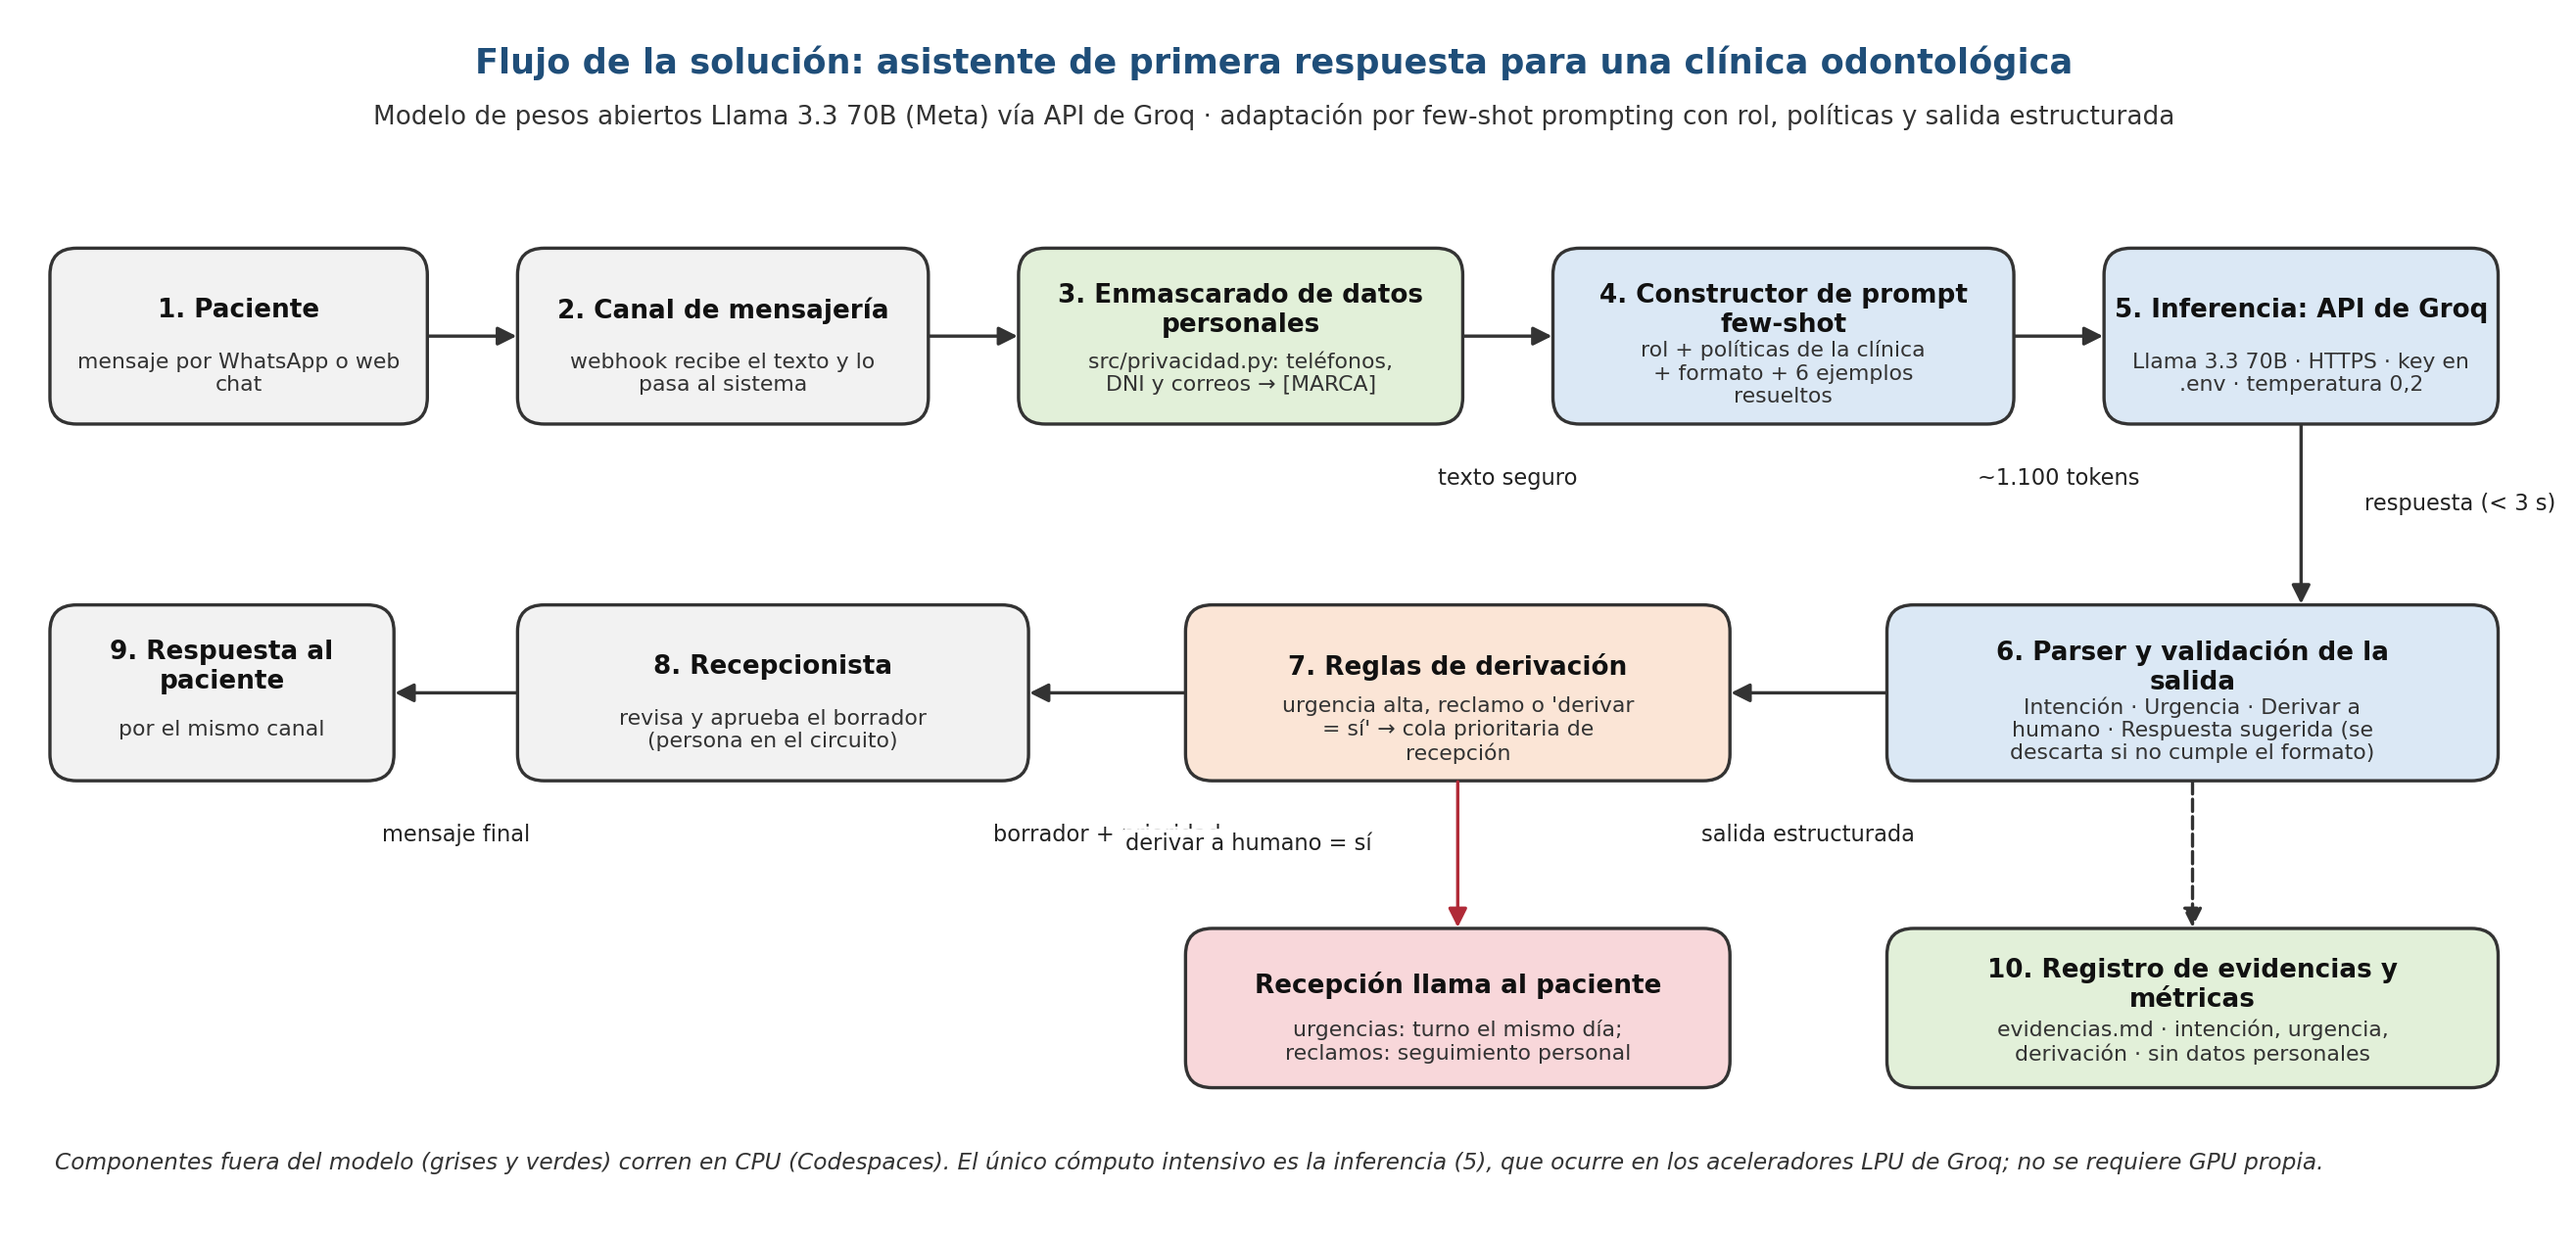
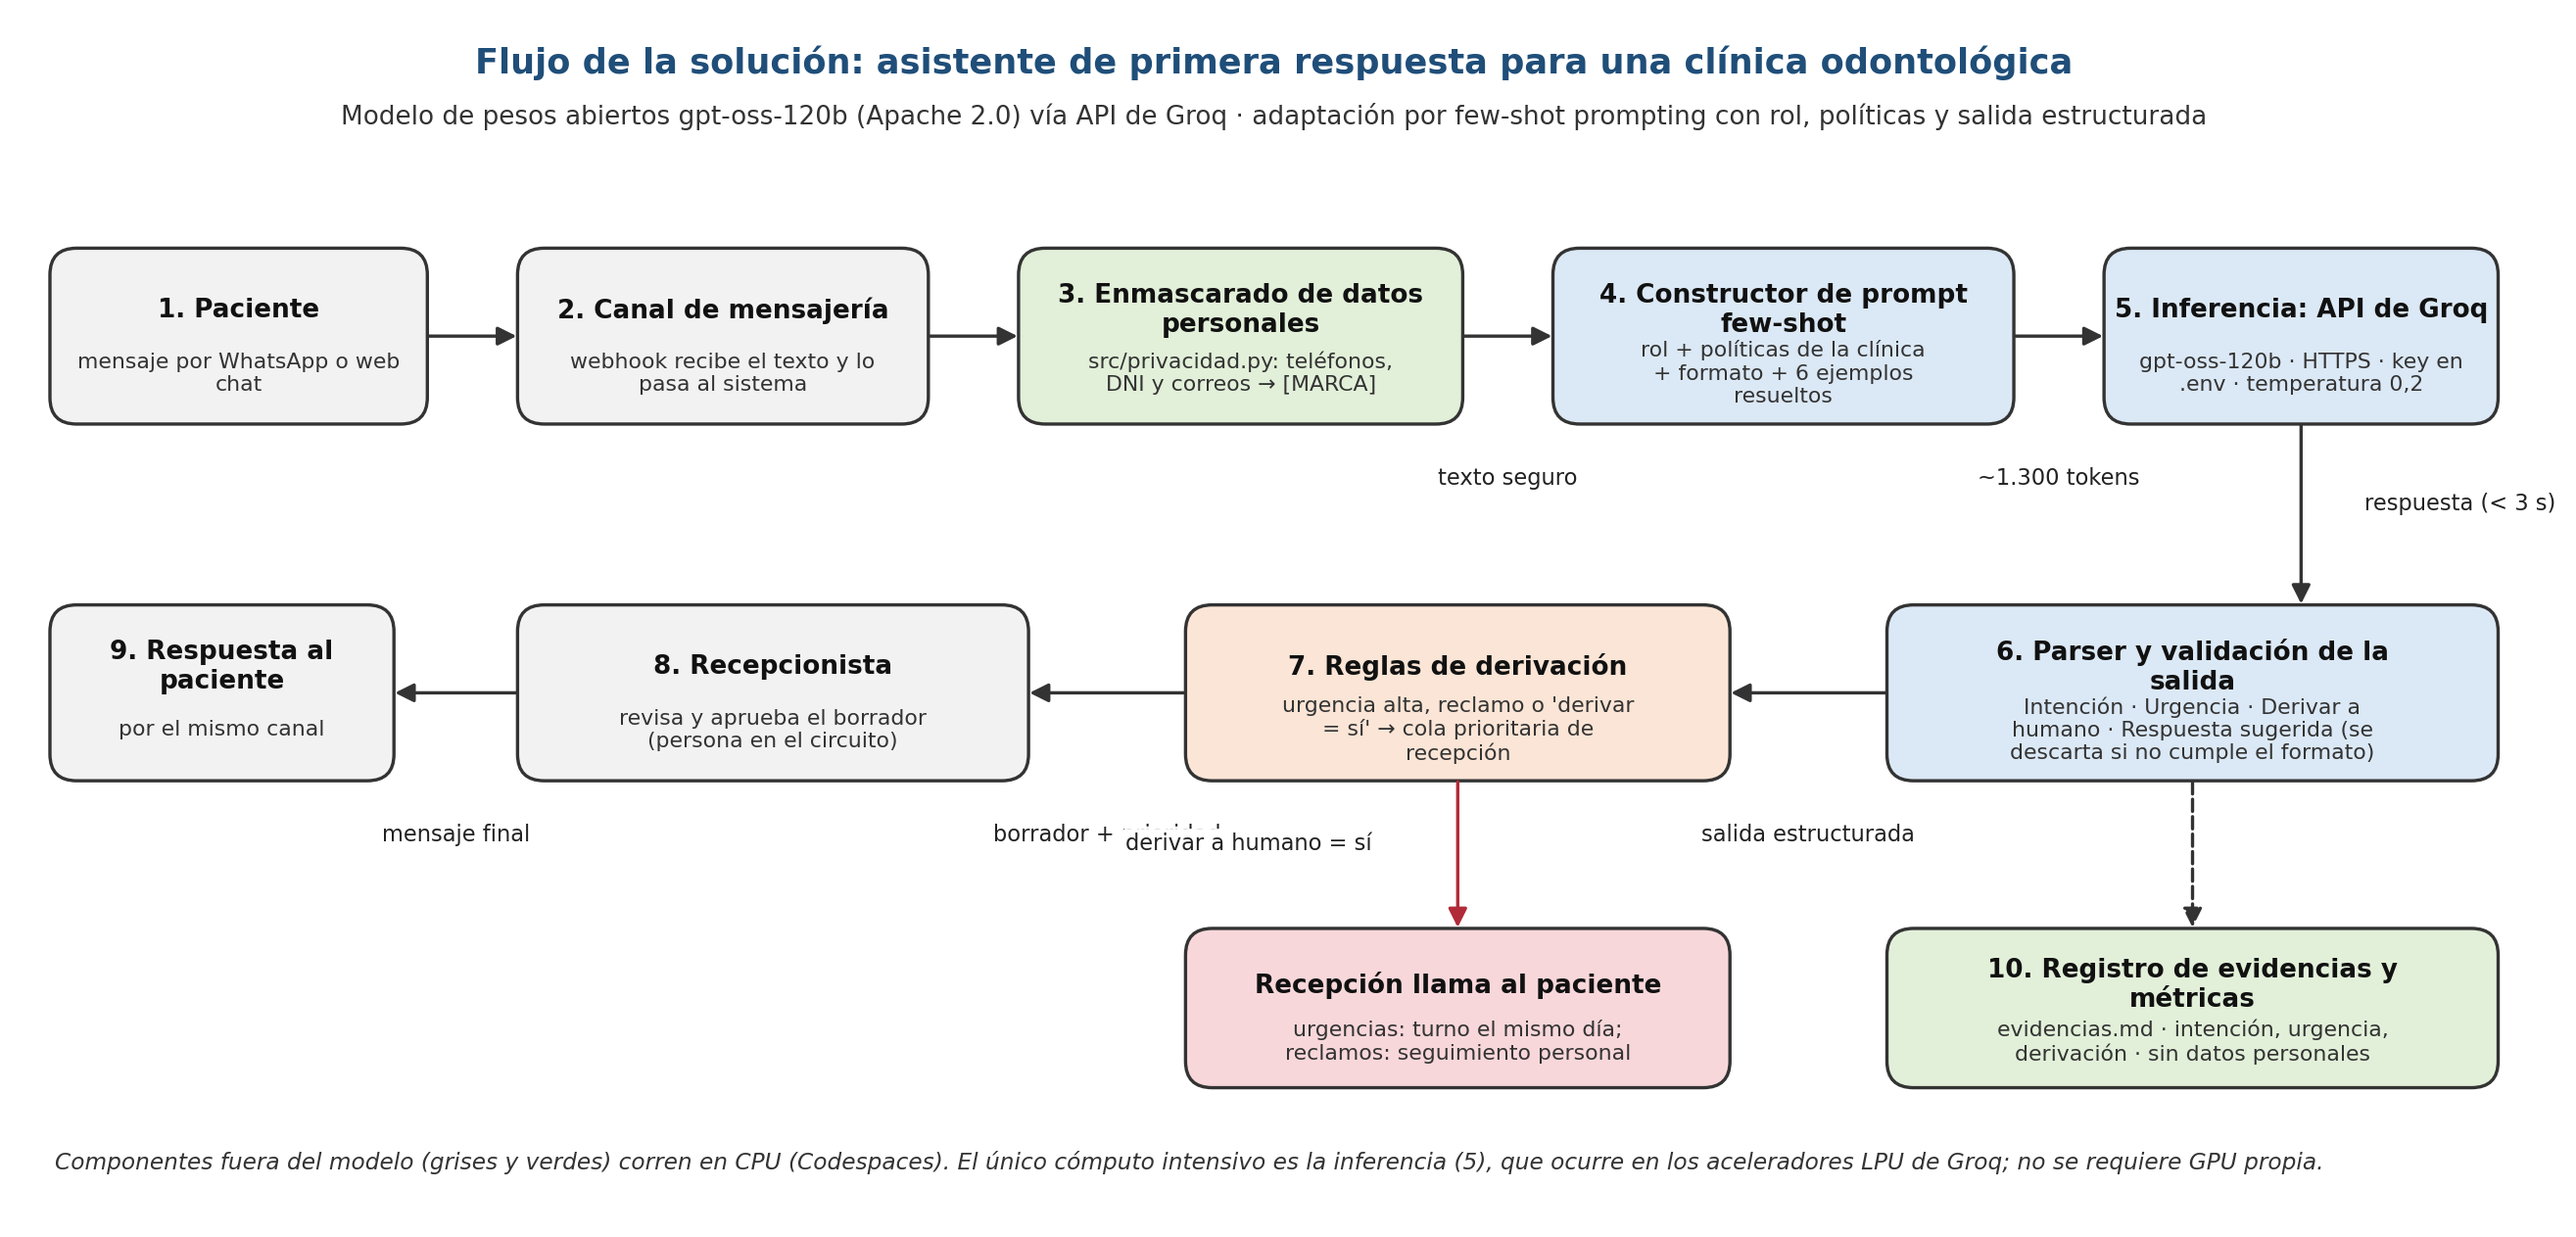
Paso el modelo a gpt-oss-120b porque Groq sacó Llama del plan gratuito

Changed region(s): [[0.1559, 0.0618, 0.8418, 0.1235], [0.8106, 0.2779, 0.9665, 0.3088]]

diff --git a/unidad1/src/providers/groq_provider.py b/unidad1/src/providers/groq_provider.py
@@ -9,15 +9,21 @@ from src.providers.base_provider import BaseProvider
 # --- Constantes del proveedor (nada de "magic strings/numbers" inline) ---
 GROQ_API_KEY_ENV_VAR = "GROQ_API_KEY"
 GROQ_MODEL_NAME_ENV_VAR = "GROQ_MODEL_NAME"
-# Modelo de pesos abiertos elegido en la consigna 2 (Llama 3.3 70B de Meta, servido por
-# Groq). El catálogo de Groq cambia con el tiempo: si este id deja de existir, se puede
-# fijar otro con la variable de entorno GROQ_MODEL_NAME sin tocar el código, o listar los
-# vigentes con `curl -s -H "Authorization: Bearer $GROQ_API_KEY" https://api.groq.com/openai/v1/models`.
-GROQ_MODEL_NAME_POR_DEFECTO = "llama-3.3-70b-versatile"
+# Modelo de pesos abiertos elegido en la consigna 2: gpt-oss-120b (OpenAI, licencia Apache 2.0,
+# mezcla de expertos con 5,1B de parámetros activos), servido por Groq en el nivel gratuito.
+# Llama 3.3 70B fue la primera opción, pero Groq lo retiró del plan gratuito el 16/08/2026.
+# El catálogo cambia con el tiempo: si este id deja de existir, se puede fijar otro con la
+# variable de entorno GROQ_MODEL_NAME sin tocar el código, o listar los vigentes con
+# `curl -s -H "Authorization: Bearer $GROQ_API_KEY" https://api.groq.com/openai/v1/models`.
+GROQ_MODEL_NAME_POR_DEFECTO = "openai/gpt-oss-120b"
 # Temperatura baja: la tarea es de clasificación y redacción acotada, se busca consistencia.
 GROQ_TEMPERATURE = 0.2
-# Tope de tokens de salida: la respuesta estructurada es corta (cuatro líneas).
-GROQ_MAX_TOKENS = 400
+# Tope de tokens de salida: la respuesta estructurada es corta (cuatro líneas). Incluye el
+# razonamiento interno del modelo, por eso se deja margen.
+GROQ_MAX_TOKENS = 1200
+# gpt-oss es un modelo de razonamiento: con esfuerzo bajo alcanza para clasificar y redactar,
+# y se reduce la latencia y el consumo de tokens del nivel gratuito.
+GROQ_REASONING_EFFORT = "low"
 
 
 class GroqProvider(BaseProvider):
@@ -39,6 +45,7 @@ class GroqProvider(BaseProvider):
                 model=self.nombre_modelo,
                 temperature=GROQ_TEMPERATURE,
                 max_tokens=GROQ_MAX_TOKENS,
+                reasoning_effort=GROQ_REASONING_EFFORT,
                 messages=[{"role": "user", "content": prompt}],
             )
         except Exception as error:

diff --git a/unidad1/src/main.py b/unidad1/src/main.py
@@ -12,6 +12,7 @@ src/prompt_templates.py.
 """
 
 import os
+import time
 from datetime import datetime, timezone
 
 from dotenv import load_dotenv
@@ -25,6 +26,9 @@ MODEL_PROVIDER_ENV_VAR = "MODEL_PROVIDER"
 EVIDENCIAS_FILE_PATH = "evidencias.md"
 CAMPO_DERIVACION = "Derivar a humano"
 CAMPO_INTENCION = "Intención"
+# El nivel gratuito de Groq limita los tokens por minuto (8.000 TPM para gpt-oss-120b);
+# cada consulta usa ~1.500 tokens, así que se espacian las llamadas para no superar el límite.
+PAUSA_ENTRE_CONSULTAS_SEGUNDOS = 15
 
 # Técnica de prompting elegida y justificada en la consigna 3: few-shot con rol,
 # políticas del negocio y salida estructurada.
@@ -98,6 +102,8 @@ def main() -> None:
 
     resultados = []
     for numero, consulta in enumerate(CONSULTAS_DE_EJEMPLO, start=1):
+        if numero > 1:
+            time.sleep(PAUSA_ENTRE_CONSULTAS_SEGUNDOS)
         consulta_segura, prompt, respuesta = ejecutar_consulta(provider, consulta)
         resultados.append((consulta_segura, prompt, respuesta))
         print(f"[{numero}] Mensaje: {consulta_segura}\n{respuesta}\n")

diff --git a/unidad1/README.md b/unidad1/README.md
@@ -28,13 +28,15 @@ siempre a una persona. Restricciones del contexto: presupuesto de PyME, datos se
 
 ## Modelo elegido
 
-**Llama 3.3 70B Instruct (Meta), modelo de pesos abiertos, servido por la API de Groq**
-(`llama-3.3-70b-versatile`). Motivos resumidos: costo por token muy bajo y nivel gratuito para el
-prototipo; pesos abiertos que permiten migrar a un despliegue propio si la clínica necesita que
-ningún dato salga de su infraestructura; y posibilidad futura de ajuste fino (LoRA), algo que un
-modelo cerrado no ofrece. La justificación completa frente a un modelo cerrado (Gemini vía Google
-AI Studio) está en el informe. El id del modelo puede cambiarse sin tocar el código con la variable
-`GROQ_MODEL_NAME` en `.env`.
+**gpt-oss-120b (OpenAI), modelo de pesos abiertos bajo licencia Apache 2.0, servido por la API
+de Groq** (`openai/gpt-oss-120b`, mezcla de expertos con 117 mil millones de parámetros totales y
+5,1 mil millones activos por token). Motivos resumidos: nivel gratuito y costo por token muy bajo
+para el prototipo; pesos abiertos que permiten migrar a un despliegue propio (entra en una sola GPU
+de 80 GB) si la clínica necesita que ningún dato salga de su infraestructura; y posibilidad futura
+de ajuste fino (LoRA), algo que un modelo cerrado no ofrece. Llama 3.3 70B fue la primera opción,
+pero Groq lo retiró del plan gratuito el 16/08/2026. La justificación completa frente a un modelo
+cerrado (Gemini vía Google AI Studio) está en el informe. El id del modelo puede cambiarse sin tocar
+el código con la variable `GROQ_MODEL_NAME` en `.env`.
 
 ## Estrategia de adaptación
 
@@ -93,6 +95,6 @@ unidad1/
     └── providers/
         ├── base_provider.py     # contrato: generate(prompt) -> str, nombre_modelo
         ├── factory.py           # get_provider(name) según MODEL_PROVIDER
-        ├── groq_provider.py     # Llama 3.3 70B vía Groq (temperatura 0,2)
+        ├── groq_provider.py     # gpt-oss-120b vía Groq (temperatura 0,2, razonamiento bajo)
         └── gemini_provider.py   # alternativa cerrada de la plantilla (no usada)
 ```

diff --git a/README.md b/README.md
@@ -6,4 +6,4 @@ Codespaces bajo `.devcontainer/<unidad>/`.
 
 | Unidad | Actividad | Carpeta |
 |---|---|---|
-| 1 | Asistente de primera respuesta para una clínica odontológica con Llama 3.3 70B (Groq) y few-shot prompting | [`unidad1/`](unidad1/README.md) |
+| 1 | Asistente de primera respuesta para una clínica odontológica con gpt-oss-120b (pesos abiertos, vía Groq) y few-shot prompting | [`unidad1/`](unidad1/README.md) |
